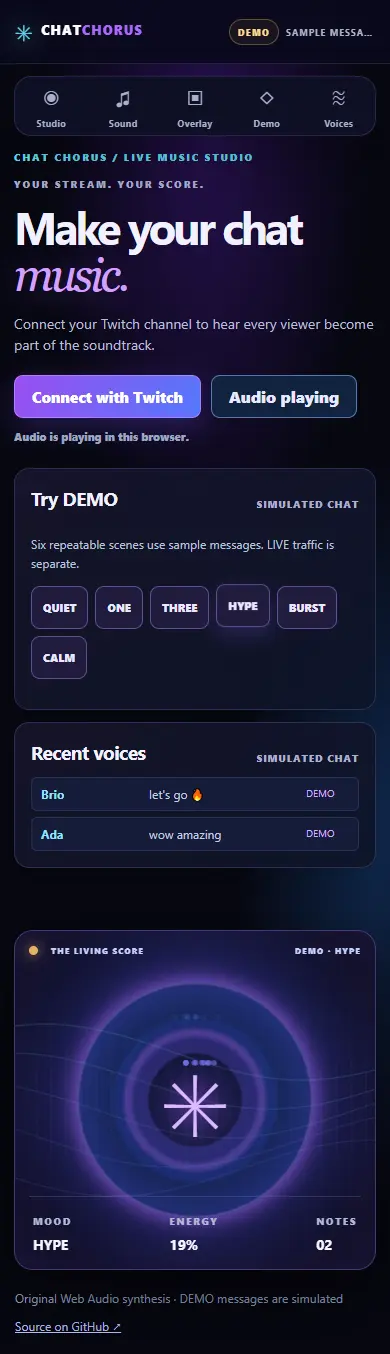
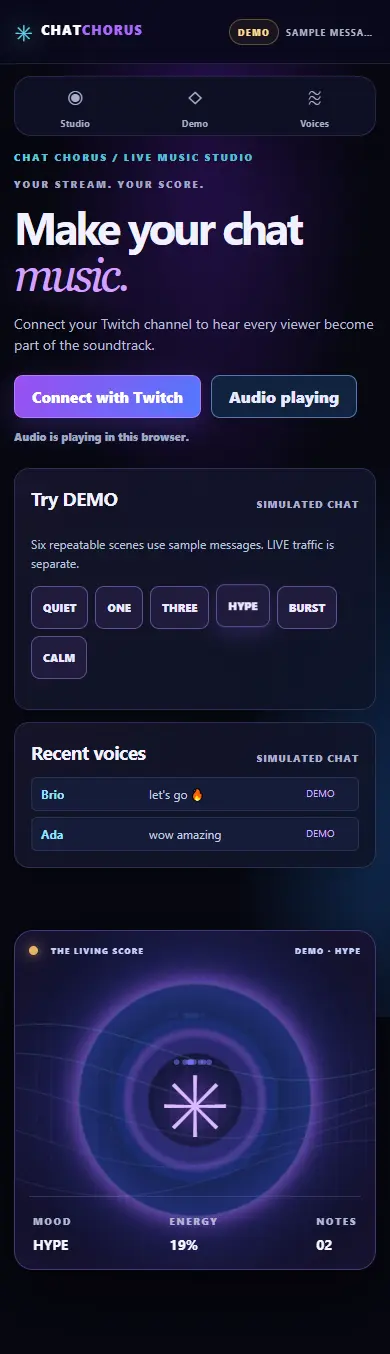
Complete OBS overlay editor and recovery checks

diff --git a/src/public.ts b/src/public.ts
@@ -7,7 +7,7 @@ import { demoEvents, SCENARIOS, type Scenario } from './demo';
 type Recent = { viewer: string; text: string; source: 'LIVE'; at: number };
 type Scene = 'AURORA' | 'NEON' | 'NOIR';
 type Effect = 'CLEAN' | 'WARM' | 'BRIGHT';
-type Status = { authorized: boolean; uid?: string; login?: string; mode?: string; connection: string; error?: string; liveSeen?: boolean; mood?: Mood; moodOverride?: Mood | null; energy?: number; tempo?: number; volume?: number; muted?: boolean; stopped?: boolean; scene?: Scene; effect?: Effect; recent?: Recent[] };
+type Status = { authorized: boolean; uid?: string; login?: string; mode?: string; connection: string; error?: string; liveSeen?: boolean; mood?: Mood; moodOverride?: Mood | null; energy?: number; tempo?: number; volume?: number; muted?: boolean; stopped?: boolean; scene?: Scene; effect?: Effect; overlayBackground?: 'STAGE' | 'TRANSPARENT'; recent?: Recent[] };
 const audio = new AudioController(), demoMusic = new MusicState();
 const obsToken = location.hash.startsWith('#obs=') ? location.hash.slice(5) : '';
 const overlay = /^\d+\.[A-Za-z0-9_-]{40,}$/.test(obsToken);
@@ -39,6 +39,7 @@ document.querySelector('.feed')!.id = 'feed';
 document.querySelector('.control-grid')!.insertAdjacentHTML('beforeend', `<div class="control-choice"><span class="choice-title">Scene · changes the visual theme in studio and OBS</span><div id="live-scenes" class="choice-row" role="group" aria-label="Visual scene"><button type="button" data-live-scene="AURORA">Aurora</button><button type="button" data-live-scene="NEON">Neon</button><button type="button" data-live-scene="NOIR">Noir</button></div></div><div class="control-choice"><span class="choice-title">Sound color · changes the synth filter in studio and OBS</span><div id="effects" class="choice-row" role="group" aria-label="Sound color"><button type="button" data-effect="CLEAN">Clean</button><button type="button" data-effect="WARM">Warm</button><button type="button" data-effect="BRIGHT">Bright</button></div></div>`);
 document.querySelector('.obs')!.id = 'overlay-editor';
 document.querySelector('.obs')!.insertAdjacentHTML('afterbegin', `<span class="eyebrow">OVERLAY EDITOR · LIVE PREVIEW ON THE LEFT</span>`);
+document.querySelector('.obs h3')!.insertAdjacentHTML('afterend', `<div class="overlay-options"><span class="choice-title">OBS background · choose a full scene or layer over your stream</span><div class="choice-row" role="group" aria-label="OBS background"><button type="button" data-overlay-background="STAGE">Full scene</button><button type="button" data-overlay-background="TRANSPARENT">Transparent</button></div></div>`);
 document.querySelector('.stage-top')!.insertAdjacentHTML('afterbegin', `<span class="stage-live-dot" aria-hidden="true"></span>`);
 document.querySelector('.stage')!.insertAdjacentHTML('beforeend', `<button id="overlay-unlock" class="overlay-unlock" type="button" hidden>Enable overlay audio</button>`);
 document.querySelector('.top')!.insertAdjacentHTML('afterbegin', `<span class="top-kicker">CHAT CHORUS / LIVE MUSIC STUDIO</span>`);
@@ -51,12 +52,13 @@ function render(): void {
   const liveConnected = live && server.connection === 'LIVE_CONNECTED';
   const scene = live ? server.scene || 'AURORA' : demoScene;
   const effect = live ? server.effect || 'CLEAN' : demoEffect;
-  root.querySelector('.product')!.className = `product ${overlay ? 'overlay ' : ''}${live ? 'is-live ' : 'is-demo '}scene-${scene.toLowerCase()}`;
+  root.querySelector('.product')!.className = `product ${overlay ? 'overlay ' : ''}${live ? 'is-live ' : 'is-demo '}scene-${scene.toLowerCase()} ${server.overlayBackground === 'TRANSPARENT' ? 'overlay-transparent' : ''}`;
   document.querySelector('.top h1')!.innerHTML = server.authorized ? 'Your live <em>studio.</em>' : 'Make your chat <em>music.</em>';
   audio.setEffect(effect);
   el('overlay-unlock').toggleAttribute('hidden', !overlay || !server.authorized || audio.running || Boolean(server.stopped));
   for (const button of document.querySelectorAll<HTMLButtonElement>('[data-live-scene]')) { const selected = button.dataset.liveScene === scene; button.setAttribute('aria-pressed', String(selected)); }
   for (const button of document.querySelectorAll<HTMLButtonElement>('[data-effect]')) { const selected = button.dataset.effect === effect; button.setAttribute('aria-pressed', String(selected)); }
+  for (const button of document.querySelectorAll<HTMLButtonElement>('[data-overlay-background]')) button.setAttribute('aria-pressed', String(button.dataset.overlayBackground === (server.overlayBackground || 'STAGE')));
   el('badge').textContent = liveConnected ? 'LIVE' : live ? 'TWITCH WAITING' : 'DEMO'; el('badge').className = `badge ${liveConnected ? 'live' : ''}`;
   el('connection').textContent = live ? server.connection.replaceAll('_', ' ') : 'SAMPLE MESSAGES';
   el('scene-label').textContent = liveConnected ? `LIVE · ${server.login || 'TWITCH'}` : live ? `TWITCH · ${server.connection.replaceAll('_', ' ')}` : `DEMO · ${scenario.toUpperCase()}`;
@@ -70,6 +72,7 @@ function render(): void {
   el('connect').toggleAttribute('hidden', overlay || server.authorized);
   el('logout').toggleAttribute('hidden', overlay || !server.authorized);
   el('control').toggleAttribute('hidden', overlay || !server.authorized);
+  for (const href of ['#control', '#overlay-editor']) document.querySelector<HTMLAnchorElement>(`.studio-nav a[href="${href}"]`)!.toggleAttribute('hidden', overlay || !server.authorized);
   el('demo-panel').toggleAttribute('hidden', overlay);
   el('return-live').toggleAttribute('hidden', !server.authorized || live);
   el('channel').textContent = server.authorized ? `twitch.tv/${server.login || ''}` : '';
@@ -105,7 +108,7 @@ function openSocket(): void {
   socket = new WebSocket(`${location.protocol === 'https:' ? 'wss:' : 'ws:'}//${location.host}${path}`);
   socket.onopen = () => { retry = 0; setError(''); };
   socket.onmessage = event => { try { const frame = JSON.parse(event.data); if (frame.type === 'status') { const wasStopped = server.stopped; server = frame.data; if (uiMode === 'LIVE') render(); if (overlay && server.authorized && !server.stopped) void audio.start().then(render).catch(() => render()); if (server.stopped && !wasStopped) void audio.emergencyStop().then(render); } else if (frame.type === 'note') addNote(frame.data as NoteEvent); else if (frame.type === 'stop') void audio.emergencyStop().then(render); } catch { /* malformed frame ignored */ } };
-  socket.onclose = () => { if (closedByUser) return; setError('Connection lost. Reconnecting…'); setTimeout(openSocket, Math.min(15000, 500 * 2 ** Math.min(retry++, 5))); };
+  socket.onclose = () => { if (closedByUser) return; void (async () => { if (!overlay) { try { const current = await api('/api/status'); if (!current.authorized) { server = current; uiMode = 'DEMO'; closedByUser = true; obsUrl = ''; el<HTMLInputElement>('obs-url').value = ''; await audio.emergencyStop(); setError('Session expired. Connect with Twitch again.'); render(); return; } } catch { /* service may be temporarily unavailable */ } } setError(overlay ? 'Overlay connection lost. Reconnecting… Check the OBS key if this continues.' : 'Connection lost. Reconnecting…'); setTimeout(openSocket, Math.min(15000, 500 * 2 ** Math.min(retry++, 5))); })(); };
   socket.onerror = () => { socket?.close(); };
 }
 function draw(time: number): void {
@@ -123,6 +126,7 @@ el('overlay-unlock').addEventListener('click', () => void run(async () => { awai
 if (!overlay) {
   for (const button of document.querySelectorAll<HTMLButtonElement>('[data-live-scene]')) button.addEventListener('click', () => void run(async () => { server = await api('/api/scene', { scene: button.dataset.liveScene }); render(); }));
   for (const button of document.querySelectorAll<HTMLButtonElement>('[data-effect]')) button.addEventListener('click', () => void run(async () => { server = await api('/api/effect', { effect: button.dataset.effect }); render(); }));
+  for (const button of document.querySelectorAll<HTMLButtonElement>('[data-overlay-background]')) button.addEventListener('click', () => void run(async () => { server = await api('/api/overlay', { background: button.dataset.overlayBackground }); render(); }));
   el('logout').addEventListener('click', () => void run(async () => { await api('/api/logout', {}); closedByUser = true; socket?.close(); server = { authorized: false, connection: 'DISCONNECTED' }; uiMode = 'DEMO'; obsUrl = ''; el<HTMLInputElement>('obs-url').value = ''; await audio.emergencyStop(); render(); }));
   el<HTMLInputElement>('volume').addEventListener('change', () => void run(async () => { server = await api('/api/volume', { volume: Number(el<HTMLInputElement>('volume').value) / 100, muted }); render(); }));
   el('mute').addEventListener('click', () => void run(async () => { muted = !muted; server = await api('/api/volume', { volume: Number(el<HTMLInputElement>('volume').value) / 100, muted }); el('mute').textContent = muted ? 'Unmute' : 'Mute'; render(); }));

diff --git a/cloud/worker.ts b/cloud/worker.ts
@@ -17,10 +17,11 @@ type Room = {
   connection: string; error: string; liveSeen: boolean; volume: number;
   muted: boolean; stopped: boolean; moodOverride: Mood | null;
   scene?: 'AURORA' | 'NEON' | 'NOIR'; effect?: 'CLEAN' | 'WARM' | 'BRIGHT';
+  overlayBackground?: 'STAGE' | 'TRANSPARENT';
   scoreMood?: Mood; scoreEnergy?: number; scoreTempo?: number;
   recent: Array<{ viewer: string; text: string; source: 'LIVE'; at: number }>;
 };
-const empty = (): Room => ({ uid: '', login: '', sessionHash: '', obsKey: '', accessToken: '', refreshToken: '', subscriptionId: '', verifiedId: '', connection: 'DISCONNECTED', error: '', liveSeen: false, volume: .58, muted: false, stopped: false, moodOverride: null, scene: 'AURORA', effect: 'CLEAN', recent: [] });
+const empty = (): Room => ({ uid: '', login: '', sessionHash: '', obsKey: '', accessToken: '', refreshToken: '', subscriptionId: '', verifiedId: '', connection: 'DISCONNECTED', error: '', liveSeen: false, volume: .58, muted: false, stopped: false, moodOverride: null, scene: 'AURORA', effect: 'CLEAN', overlayBackground: 'STAGE', recent: [] });
 const json = (body: unknown, status = 200, extra?: HeadersInit) => new Response(JSON.stringify(body), { status, headers: { 'Content-Type': 'application/json; charset=utf-8', 'Cache-Control': 'no-store', 'X-Content-Type-Options': 'nosniff', ...extra } });
 const random = (n = 32) => btoa(String.fromCharCode(...crypto.getRandomValues(new Uint8Array(n)))).replaceAll('+', '-').replaceAll('/', '_').replaceAll('=', '');
 const bytes = (value: string) => new TextEncoder().encode(value);
@@ -177,7 +178,7 @@ async function handle(request: Request, env: Env): Promise<Response> {
     catch (error) { return json({ error: error instanceof Error ? error.message : 'Reconnect failed' }, 502); }
   }
   if (path === '/api/rotate-obs') return room(env, auth.uid, '/rotate-obs', { key: random(32) });
-  if (['/api/mood', '/api/volume', '/api/scene', '/api/effect', '/api/stop', '/api/resume'].includes(path)) {
+  if (['/api/mood', '/api/volume', '/api/scene', '/api/effect', '/api/overlay', '/api/stop', '/api/resume'].includes(path)) {
     let body: any = {};
     try { const raw = await request.text(); if (raw.length > 2048) return json({ error: 'Request too large' }, 413); body = raw ? JSON.parse(raw) : {}; }
     catch { return json({ error: 'Invalid JSON' }, 400); }
@@ -194,7 +195,7 @@ export class UserRoom {
   constructor(private ctx: any, private env: Env) {}
   private async read(): Promise<Room> { const value: Room = (await this.ctx.storage.get('room')) || empty(); if (!this.loaded) { this.music.mood = value.scoreMood || 'CALM'; this.music.energy = value.scoreEnergy ?? .18; this.music.tempo = value.scoreTempo ?? 76; this.music.setOverride(value.moodOverride); this.loaded = true; } return value; }
   private async write(value: Room): Promise<void> { await this.ctx.storage.put('room', value); }
-  private publicStatus(value: Room) { return { authorized: Boolean(value.sessionHash), uid: value.uid, login: value.login, mode: value.sessionHash ? 'LIVE' : 'DEMO', connection: value.connection, error: value.error, liveSeen: value.liveSeen, mood: this.music.mood, moodOverride: value.moodOverride, energy: this.music.energy, tempo: this.music.tempo, volume: value.volume, muted: value.muted, stopped: value.stopped, scene: value.scene || 'AURORA', effect: value.effect || 'CLEAN', recent: value.recent }; }
+  private publicStatus(value: Room) { return { authorized: Boolean(value.sessionHash), uid: value.uid, login: value.login, mode: value.sessionHash ? 'LIVE' : 'DEMO', connection: value.connection, error: value.error, liveSeen: value.liveSeen, mood: this.music.mood, moodOverride: value.moodOverride, energy: this.music.energy, tempo: this.music.tempo, volume: value.volume, muted: value.muted, stopped: value.stopped, scene: value.scene || 'AURORA', effect: value.effect || 'CLEAN', overlayBackground: value.overlayBackground || 'STAGE', recent: value.recent }; }
   private broadcast(value: unknown): void { const payload = JSON.stringify(value); for (const ws of this.ctx.getWebSockets()) { try { const attached = ws.deserializeAttachment(); if (attached?.role === 'session' && (!attached.expires || attached.expires <= Date.now())) ws.close(1008, 'Session expired'); else ws.send(payload); } catch { /* closed browser */ } } }
   private status(value: Room): void { this.broadcast({ type: 'status', data: this.publicStatus(value) }); }
   async fetch(request: Request): Promise<Response> {
@@ -233,6 +234,7 @@ export class UserRoom {
     if (path === '/volume') { if (typeof input.volume !== 'number' || input.volume < 0 || input.volume > 1 || typeof input.muted !== 'boolean') return json({ error: 'Invalid volume' }, 400); value.volume = input.volume; value.muted = input.muted; await this.write(value); this.status(value); return json(this.publicStatus(value)); }
     if (path === '/scene') { if (!['AURORA', 'NEON', 'NOIR'].includes(input.scene)) return json({ error: 'Unknown scene' }, 400); value.scene = input.scene; await this.write(value); this.status(value); return json(this.publicStatus(value)); }
     if (path === '/effect') { if (!['CLEAN', 'WARM', 'BRIGHT'].includes(input.effect)) return json({ error: 'Unknown effect' }, 400); value.effect = input.effect; await this.write(value); this.status(value); return json(this.publicStatus(value)); }
+    if (path === '/overlay') { if (!['STAGE', 'TRANSPARENT'].includes(input.background)) return json({ error: 'Unknown overlay background' }, 400); value.overlayBackground = input.background; await this.write(value); this.status(value); return json(this.publicStatus(value)); }
     if (path === '/stop') { value.stopped = true; await this.write(value); this.broadcast({ type: 'stop' }); this.status(value); return json(this.publicStatus(value)); }
     if (path === '/resume') { value.stopped = false; await this.write(value); this.status(value); return json(this.publicStatus(value)); }
     if (path === '/event') {

diff --git a/src/premium.css b/src/premium.css
@@ -18,9 +18,10 @@ body{background:#070711}button,input,select{font:inherit}button:focus-visible,a:
 .scene-neon .stage{background:radial-gradient(circle at 50% 50%,#4a1769,#122c65 42%,#080b23 80%)}.scene-neon .stage:before{filter:hue-rotate(38deg) saturate(1.4)}.scene-noir .stage{background:radial-gradient(circle at 50% 50%,#343b61,#131629 48%,#070912 80%)}.scene-noir .stage:before{filter:saturate(.35)}
 .stage canvas{z-index:1}.stage-top,.stage-bottom{z-index:2;left:25px;right:25px}.stage-top{top:25px;display:grid;grid-template-columns:12px 1fr auto;align-items:center;color:#c5d0ff;font-size:10px}.stage-live-dot{width:9px;height:9px;border-radius:50%;background:#e7b368;box-shadow:0 0 13px #e7b368}.is-live .stage-live-dot{background:#78e7ff;box-shadow:0 0 16px #78e7ff}.stage-core{z-index:2;font-size:clamp(70px,8vw,135px);color:#dbbaff;text-shadow:0 0 28px #a364ff,0 0 75px #755aea}.stage-bottom{bottom:26px;padding:17px 4px 0;border-top:1px solid #8275b94d}.stage-bottom small{color:#aeb9d6;font-size:10px}.stage-bottom strong{font-size:19px;color:#f8f6ff}.overlay-unlock{position:absolute;z-index:5;left:50%;bottom:110px;transform:translateX(-50%);min-width:210px;padding:12px 18px;border:1px solid var(--cyan);border-radius:8px;background:#182746;color:#fff;box-shadow:0 0 28px #67e7ff5e;cursor:pointer}
 footer{max-width:1800px;margin:auto;color:#9ca9c5}footer a{color:#b8c4ff}
-.overlay{background:transparent;overflow:hidden}.overlay .layout{display:block;padding:0;height:100%}.overlay .stage{width:100%;height:100%;min-height:0;border:0;border-radius:0;top:0}.overlay .stage-core{font-size:11vw}.overlay .stage:before{width:min(32vw,45vh)}
+.overlay{background:transparent;overflow:hidden}.overlay .studio-nav{display:none}.overlay .layout{display:block;padding:0;height:100%;max-width:none}.overlay .stage{width:100%;height:100%;min-height:0;border:0;border-radius:0;top:0}.overlay .stage-core{font-size:11vw}.overlay .stage:before{width:min(32vw,45vh)}
 @keyframes breathe{50%{transform:translate(-50%,-50%) scale(1.055);opacity:.85}}
 @media(max-width:1180px){.layout{grid-template-columns:62px minmax(0,1fr) minmax(330px,.82fr);gap:15px}.studio-nav a{width:50px}.stage{min-height:520px}.top h1{font-size:clamp(36px,4vw,52px)}}
 @media(max-width:950px){.layout{grid-template-columns:62px minmax(0,1fr)}.studio-nav{grid-column:1;grid-row:1/3}.desk,.stage,.is-live .desk,.is-live .stage{grid-column:2}.stage,.is-live .stage{grid-row:1;position:relative;top:0;height:460px;min-height:460px}.desk,.is-live .desk{grid-row:2}.is-demo .desk{grid-row:1}.is-demo .stage{grid-row:2}.stage:before{width:280px}}
 @media(max-width:600px){.bar{height:64px;padding:0 14px}.brand{font-size:13px}.bar-right{gap:7px}.badge{font-size:9px;padding:6px 8px}.connection{max-width:90px;font-size:9px}.text-button{font-size:11px}.layout{display:flex;flex-direction:column;padding:12px 14px 20px;gap:12px}.studio-nav{position:static;order:0;flex-direction:row;width:100%;justify-content:space-around;padding:5px}.studio-nav .nav-mark{display:none}.studio-nav a{width:auto;min-width:45px;min-height:48px;font-size:20px}.desk,.stage{width:100%}.is-live .stage{order:1}.is-live .desk{order:2}.is-demo .desk{order:1}.is-demo .stage{order:2}.stage,.is-live .stage{height:340px;min-height:340px}.stage:before{width:220px}.stage-core{font-size:85px}.stage-top,.stage-bottom{left:14px;right:14px}.stage-top{top:14px;font-size:8px}.stage-bottom{bottom:15px}.stage-bottom strong{font-size:14px}.top h1{font-size:45px}.control,.demo-panel,.feed{padding:16px;margin:0 0 12px}.control-grid{grid-template-columns:1fr 1fr}.control-grid label{min-width:0}.obs-row input{flex-basis:100%}footer{padding:0 15px 20px}.overlay .layout{padding:0}.overlay .stage{height:100vh;min-height:0}}
 @media(prefers-reduced-motion:reduce){.stage:before{animation:none}.primary,.secondary,.small,.danger,.scene-button,.studio-nav a{transition:none}}
+.overlay-options{margin:12px 0 14px}.overlay-options .choice-row button{flex:1 1 110px}.is-live.overlay-transparent:not(.overlay) .stage{background-color:#171326;background-image:linear-gradient(45deg,#22223d 25%,transparent 25%),linear-gradient(-45deg,#22223d 25%,transparent 25%),linear-gradient(45deg,transparent 75%,#22223d 75%),linear-gradient(-45deg,transparent 75%,#22223d 75%);background-size:32px 32px;background-position:0 0,0 16px,16px -16px,-16px 0}.overlay.overlay-transparent,.overlay.overlay-transparent .stage{background:transparent;box-shadow:none}.overlay.overlay-transparent .stage:after{display:none}html:has(.overlay.overlay-transparent),body:has(.overlay.overlay-transparent){background:transparent!important}

diff --git a/tests/public_backend.test.ts b/tests/public_backend.test.ts
@@ -76,12 +76,16 @@ describe('public backend boundaries', () => {
     await post('200', '/login', { uid: '200', login: 'beta', sidHash: 's2', obsKey: 'secretB', accessToken: 'b', refreshToken: 'r' });
     expect((await post('100', '/scene', { scene: 'AURORA;DROP' })).status).toBe(400);
     expect((await post('100', '/effect', { effect: 'LOUD' })).status).toBe(400);
+    expect((await post('100', '/overlay', { background: 'CSS' })).status).toBe(400);
     expect((await post('100', '/scene', { scene: 'NEON' })).status).toBe(200);
     expect((await post('100', '/effect', { effect: 'WARM' })).status).toBe(200);
+    expect((await post('100', '/overlay', { background: 'TRANSPARENT' })).status).toBe(200);
     expect((await get('100')).scene).toBe('NEON');
     expect((await get('100')).effect).toBe('WARM');
+    expect((await get('100')).overlayBackground).toBe('TRANSPARENT');
     expect((await get('200')).scene).toBe('AURORA');
     expect((await get('200')).effect).toBe('CLEAN');
+    expect((await get('200')).overlayBackground).toBe('STAGE');
   });
 
   it('closes prior browser and OBS sockets when the streamer signs in again', async () => {
@@ -91,6 +95,30 @@ describe('public backend boundaries', () => {
     sockets.get('100')!.push({ close: (_code: number, reason: string) => closed.push(reason), send: () => undefined, deserializeAttachment: () => ({ role: 'obs' }) });
     await post('100', '/login', { uid: '100', login: 'alpha', sidHash: 's1', obsKey: 'secretA', accessToken: 'a', refreshToken: 'r' });
     expect(closed).toEqual(['Session replaced', 'Session replaced']);
+  });
+
+  it('rotates the OBS capability without closing the streamer session', async () => {
+    const { post, sockets } = harness();
+    const closed: string[] = [];
+    await post('100', '/login', { uid: '100', login: 'alpha', sidHash: 's1', obsKey: 'old-key', accessToken: 'a', refreshToken: 'r' });
+    sockets.get('100')!.push({ close: (_code: number, reason: string) => closed.push(reason), deserializeAttachment: () => ({ role: 'obs' }) });
+    sockets.get('100')!.push({ close: (_code: number, reason: string) => closed.push(reason), deserializeAttachment: () => ({ role: 'session', expires: Date.now() + 60_000 }) });
+    const rotated = await post('100', '/rotate-obs', { key: 'new-key' });
+    expect((await rotated.json() as any).url).toContain('new-key');
+    expect(closed).toEqual(['OBS key rotated']);
+    const old = await (await post('100', '/session', { sid: 'invalid' })).json() as any;
+    expect(old.error).toBe('Session expired');
+    const staleObs = await (await (new UserRoom({ storage: { get: async () => ({ obsKey: 'new-key', sessionHash: 's1' }) }, getWebSockets: () => [] }, {} as any)).fetch(new Request('https://room.internal/ws?role=obs&key=old-key', { headers: { Upgrade: 'websocket' } }))).json() as any;
+    expect(staleObs.error).toBe('Invalid browser session or OBS key');
+  });
+
+  it('rejects an expired correctly signed browser cookie', async () => {
+    const { env } = harness();
+    const payload = '100.example.1';
+    const key = await crypto.subtle.importKey('raw', new TextEncoder().encode(env.SESSION_SIGNING_KEY), { name: 'HMAC', hash: 'SHA-256' }, false, ['sign']);
+    const mac = [...new Uint8Array(await crypto.subtle.sign('HMAC', key, new TextEncoder().encode(payload)))].map(x => x.toString(16).padStart(2, '0')).join('');
+    const response = await worker.fetch(new Request('https://chatchorus.pages.dev/api/status', { headers: { Cookie: `__Host_cc_session=${payload}.${mac}` } }), env);
+    expect((await response.json() as any).authorized).toBe(false);
   });
 
   it('re-login rotates the web session; sign-out revokes it without affecting another streamer', async () => {

diff --git a/DEVPOST_SUBMISSION_DRAFT.md b/DEVPOST_SUBMISSION_DRAFT.md
@@ -15,7 +15,7 @@
 
 **Inspiration.** Twitch chat is fast and ephemeral. We wanted viewers to hear their participation without typing commands, and to give streamers a musical layer that works in a normal broadcast.
 
-**What it does.** ChatChorus turns accepted messages in the streamer's own Twitch channel into notes. A deterministic viewer identity picks one of five voices. A shared key, five moods, a four-chord progression and beat alignment keep the result musical. A quiet channel still has a baseline score. The streamer can change volume, mute, select a mood, stop or resume audio, choose one of three visual scenes and select a synth filter. The personal OBS Browser Source receives the same channel's music and visualization. Six clearly labeled DEMO sequences let visitors explore the engine without a Twitch account.
+**What it does.** ChatChorus turns accepted messages in the streamer's own Twitch channel into notes. A deterministic viewer identity picks one of five voices. A shared key, five moods, a four-chord progression and beat alignment keep the result musical. A quiet channel still has a baseline score. The streamer can change volume, mute, select a mood, stop or resume audio, choose one of three visual scenes and select a synth filter. The personal OBS Browser Source receives the same channel's music and visualization, with either a full scene or transparent overlay background. Six clearly labeled DEMO sequences let visitors explore the engine without a Twitch account.
 
 **How it works.** A broadcaster signs in through Twitch OAuth. Cloudflare Pages serves the studio and routes API requests to a service-only Worker. The Worker verifies OAuth state and token scopes, creates a `channel.chat.message` EventSub webhook subscription, verifies webhook signatures and routes each event to a Durable Object keyed by that broadcaster's Twitch ID. That room holds the session, private OBS key, current settings and recent messages. Authenticated WebSockets deliver notes and state to the studio and OBS. The Web Audio engine synthesizes the score in each browser context; browser and OBS audio need their own unlock gesture. Tokens and signing secrets stay server-side.
 

diff --git a/README.md b/README.md
@@ -15,7 +15,7 @@ Current public interface, captured in clearly labeled DEMO mode on desktop and m
 2. The studio shows **LIVE CONNECTED** when Twitch confirms the EventSub subscription. Click **Enable audio** in the studio to unlock browser audio.
 3. Copy your private OBS Browser Source URL from **Overlay Editor**. Add it to OBS as a 1920 × 1080 Browser Source. Keep this URL private; rotate its key if exposed.
 4. In OBS, use **Interact → Enable overlay audio** if the browser source cannot autoplay. Check the OBS mixer meter. Capture either the OBS source or the studio audio, avoiding a double mix.
-5. Send a real Twitch chat message. It should appear as **LIVE** in Recent voices and change the score. The same channel's OBS scene should react. Select **Aurora**, **Neon** or **Noir** for the visual scene and **Clean**, **Warm** or **Bright** for the synth filter. Volume, mute, mood override, stop and reconnect work from the studio.
+5. Send a real Twitch chat message. It should appear as **LIVE** in Recent voices and change the score. The same channel's OBS scene should react. Select **Aurora**, **Neon** or **Noir** for the visual scene and **Clean**, **Warm** or **Bright** for the synth filter. The Overlay Editor can switch OBS between a full scene and a transparent layer; the studio displays a checkerboard preview for the transparent option. Volume, mute, mood override, stop and reconnect work from the studio.
 6. **Try DEMO** runs labeled sample messages. **Return to LIVE** restores the real feed. **Sign out** disconnects the current account; connecting again creates a new session and OBS key.
 
 The owner confirmed OAuth, LIVE CONNECTED, real messages in Recent voices and creation of a personal OBS URL on production for `gg_punch` before the latest design update. Independent real OBS audio, a second streamer and the complete post-update journey still need owner checks. DEMO and automated test results are never presented as proof of LIVE operation.
